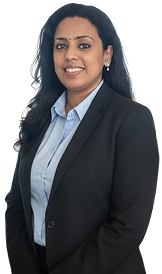
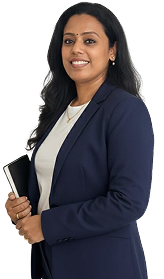
Updates
Facebook line icon added for footer, Dr. Parvathi image change.

diff --git a/resources/views/partials/frontend/footer.blade.php b/resources/views/partials/frontend/footer.blade.php
@@ -1,79 +1,82 @@
-    <!-- Footer -->
-    <footer class="mt-10 lg:mt-20">
-        <div class="relative z-1">
-            <!-- Decorative Images -->
-            <img src="{{ asset('frontend/assets/leaf-03.png') }}" alt="Leaf Image"
-                class="absolute bottom-full translate-y-[70px] left-0 w-30 md:w-[100px] opacity-80 pointer-events-none z-10">
-            <img src="{{ asset('frontend/assets/tulsi-image.png') }}" alt="Tulsi Image"
-                class="absolute bottom-full translate-y-[80px] right-0 w-30 md:w-[163px] opacity-80 pointer-events-none z-10">
+<!-- Footer -->
+<footer class="mt-10 lg:mt-20">
+    <div class="relative z-1">
+        <!-- Decorative Images -->
+        <img src="{{ asset('frontend/assets/leaf-03.png') }}" alt="Leaf Image"
+            class="absolute bottom-full translate-y-[70px] left-0 w-30 md:w-[100px] opacity-80 pointer-events-none z-10">
+        <img src="{{ asset('frontend/assets/tulsi-image.png') }}" alt="Tulsi Image"
+            class="absolute bottom-full translate-y-[80px] right-0 w-30 md:w-[163px] opacity-80 pointer-events-none z-10">
 
-        </div>
-        <div class="p-4 relative z-10">
-            <div class="container-fluid bg-[#F2F2F2] pl-10 pr-10 pt-16 pb-8 rounded-xl">
-                <div class="grid grid-cols-1 md:grid-cols-4 gap-12 mb-12">
-                    <!-- Column 1 -->
-                    <div class="col-span-1 md:col-span-1">
-                        <!-- Logo (Centered) -->
-                        <a href="#" class="text-2xl md:text-3xl font-serif font-bold tracking-widest text-secondary">
-                            <img src="{{ asset('frontend/assets/zaya-logo.svg') }}" alt="Zaya Wellness" class="h-24">
-                        </a>
-                        <p class="text-secondary text-sm leading-relaxed mt-4">Embracing the ancient wisdom of Ayurveda
-                            to
-                            bring harmony to your modern life.</p>
-                    </div>
-
-                    <!-- Spacer -->
-                    <div class="hidden md:block"></div>
-
-                    <!-- Links -->
-                    <div>
-                        <h4 class="font-bold font-sans text-primary mb-6 text-lg">Quick Links</h4>
-                        <ul class="space-y-3 text-sm text-secondary">
-                            <li><a href="#" class="hover:text-primary transition-colors">Home</a></li>
-                            <li><a href="#" class="hover:text-primary transition-colors">Practitioners</a></li>
-                            <li><a href="#" class="hover:text-primary transition-colors">Treatments</a></li>
-                            <li><a href="#" class="hover:text-primary transition-colors">E-Consultation</a></li>
-                            <li><a href="#" class="hover:text-primary transition-colors">Contact</a></li>
-                        </ul>
-                    </div>
-
-                    <!-- Newsletter -->
-                    <div>
-                        <h4 class="font-bold font-sans text-primary mb-6 text-lg">Stay Connected</h4>
-                        <p class="text-xs text-secondary mb-4">Join our newsletter for wellness tips.</p>
-                        <div class="flex gap-2">
-                            <input type="email" placeholder="Your email..."
-                                class="bg-[#95B2A3] placeholder-[#2E4B3C]/70 text-[#2E4B3C] rounded-lg px-4 py-3 w-full text-base focus:outline-none">
-                            <button
-                                class="bg-[#F8E0BB] text-[#2E4B3C] rounded-lg px-5 hover:bg-opacity-90 transition-colors flex items-center justify-center">
-                                <i class="ri-send-plane-2-fill text-xl"></i>
-                            </button>
-                        </div>
-                        <div class="flex gap-4 mt-6">
-                            <a href="#" class="w-6 h-6 hover:opacity-80 transition-opacity">
-                                <img src="{{ asset('frontend/assets/web-icon.svg') }}" alt="Website" class="w-full h-full">
-                            </a>
-                            <a href="#" class="w-6 h-6 hover:opacity-80 transition-opacity">
-                                <img src="{{ asset('frontend/assets/instagram-icon.svg') }}" alt="Instagram" class="w-full h-full">
-                            </a>
-                            <a href="#" class="w-6 h-6 hover:opacity-80 transition-opacity">
-                                <img src="{{ asset('frontend/assets/facebook-icon.svg') }}" alt="Facebook" class="w-full h-full">
-                            </a>
-                            <a href="#" class="w-6 h-6 hover:opacity-80 transition-opacity">
-                                <img src="{{ asset('frontend/assets/whatsapp-icon.svg') }}" alt="WhatsApp" class="w-full h-full">
-                            </a>
-                        </div>
-                    </div>
+    </div>
+    <div class="p-4 relative z-10">
+        <div class="container-fluid bg-[#F2F2F2] pl-10 pr-10 pt-16 pb-8 rounded-xl">
+            <div class="grid grid-cols-1 md:grid-cols-4 gap-12 mb-12">
+                <!-- Column 1 -->
+                <div class="col-span-1 md:col-span-1">
+                    <!-- Logo (Centered) -->
+                    <a href="#" class="text-2xl md:text-3xl font-serif font-bold tracking-widest text-secondary">
+                        <img src="{{ asset('frontend/assets/zaya-logo.svg') }}" alt="Zaya Wellness" class="h-24">
+                    </a>
+                    <p class="text-secondary text-sm leading-relaxed mt-4">Embracing the ancient wisdom of Ayurveda
+                        to
+                        bring harmony to your modern life.</p>
                 </div>
 
-                <div
-                    class="border-t border-gray-200 pt-8 flex flex-col md:flex-row justify-between items-center gap-4 text-xs text-gray-400">
-                    <p>&copy; 2024 Zaya Wellness. All rights reserved.</p>
-                    <div class="flex gap-4">
-                        <a href="#" class="hover:text-primary">Privacy Policy</a>
-                        <a href="#" class="hover:text-primary">Terms of Service</a>
+                <!-- Spacer -->
+                <div class="hidden md:block"></div>
+
+                <!-- Links -->
+                <div>
+                    <h4 class="font-bold font-sans text-primary mb-6 text-lg">Quick Links</h4>
+                    <ul class="space-y-3 text-sm text-secondary">
+                        <li><a href="#" class="hover:text-primary transition-colors">Home</a></li>
+                        <li><a href="#" class="hover:text-primary transition-colors">Practitioners</a></li>
+                        <li><a href="#" class="hover:text-primary transition-colors">Treatments</a></li>
+                        <li><a href="#" class="hover:text-primary transition-colors">E-Consultation</a></li>
+                        <li><a href="#" class="hover:text-primary transition-colors">Contact</a></li>
+                    </ul>
+                </div>
+
+                <!-- Newsletter -->
+                <div>
+                    <h4 class="font-bold font-sans text-primary mb-6 text-lg">Stay Connected</h4>
+                    <p class="text-xs text-secondary mb-4">Join our newsletter for wellness tips.</p>
+                    <div class="flex gap-2">
+                        <input type="email" placeholder="Your email..."
+                            class="bg-[#95B2A3] placeholder-[#2E4B3C]/70 text-[#2E4B3C] rounded-lg px-4 py-3 w-full text-base focus:outline-none">
+                        <button
+                            class="bg-[#F8E0BB] text-[#2E4B3C] rounded-lg px-5 hover:bg-opacity-90 transition-colors flex items-center justify-center">
+                            <i class="ri-send-plane-2-fill text-xl"></i>
+                        </button>
+                    </div>
+                    <div class="flex gap-4 mt-6">
+                        <a href="#" class="w-6 h-6 hover:opacity-80 transition-opacity">
+                            <img src="{{ asset('frontend/assets/web-icon.svg') }}" alt="Website" class="w-full h-full">
+                        </a>
+                        <a href="#" class="w-6 h-6 hover:opacity-80 transition-opacity">
+                            <img src="{{ asset('frontend/assets/instagram-icon.svg') }}" alt="Instagram"
+                                class="w-full h-full">
+                        </a>
+                        <a href="#" class="w-6 h-6 hover:opacity-80 transition-opacity">
+                            <img src="{{ asset('frontend/assets/facebook-line-icon.svg') }}" alt="Facebook"
+                                class="w-full h-full">
+                        </a>
+                        <a href="#" class="w-6 h-6 hover:opacity-80 transition-opacity">
+                            <img src="{{ asset('frontend/assets/whatsapp-icon.svg') }}" alt="WhatsApp"
+                                class="w-full h-full">
+                        </a>
                     </div>
                 </div>
             </div>
+
+            <div
+                class="border-t border-gray-200 pt-8 flex flex-col md:flex-row justify-between items-center gap-4 text-xs text-gray-400">
+                <p>&copy; 2024 Zaya Wellness. All rights reserved.</p>
+                <div class="flex gap-4">
+                    <a href="#" class="hover:text-primary">Privacy Policy</a>
+                    <a href="#" class="hover:text-primary">Terms of Service</a>
+                </div>
+            </div>
         </div>
-    </footer>
+    </div>
+</footer>
